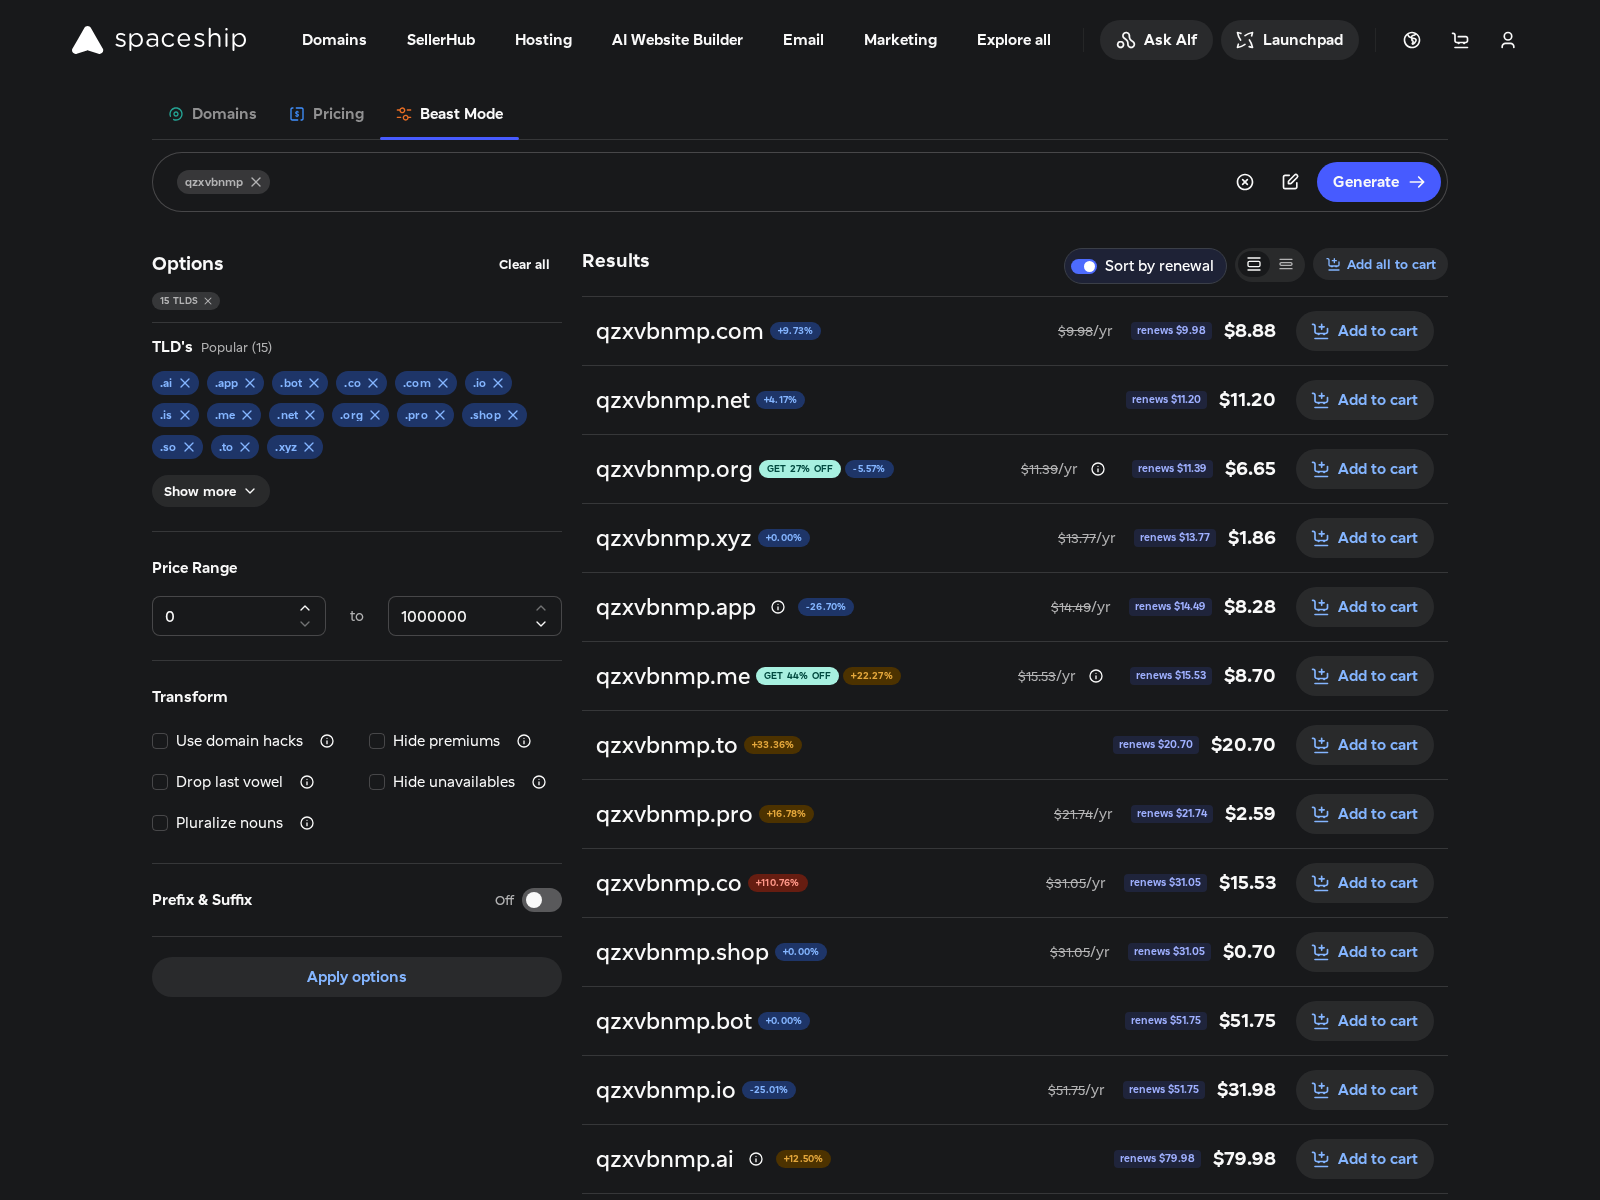
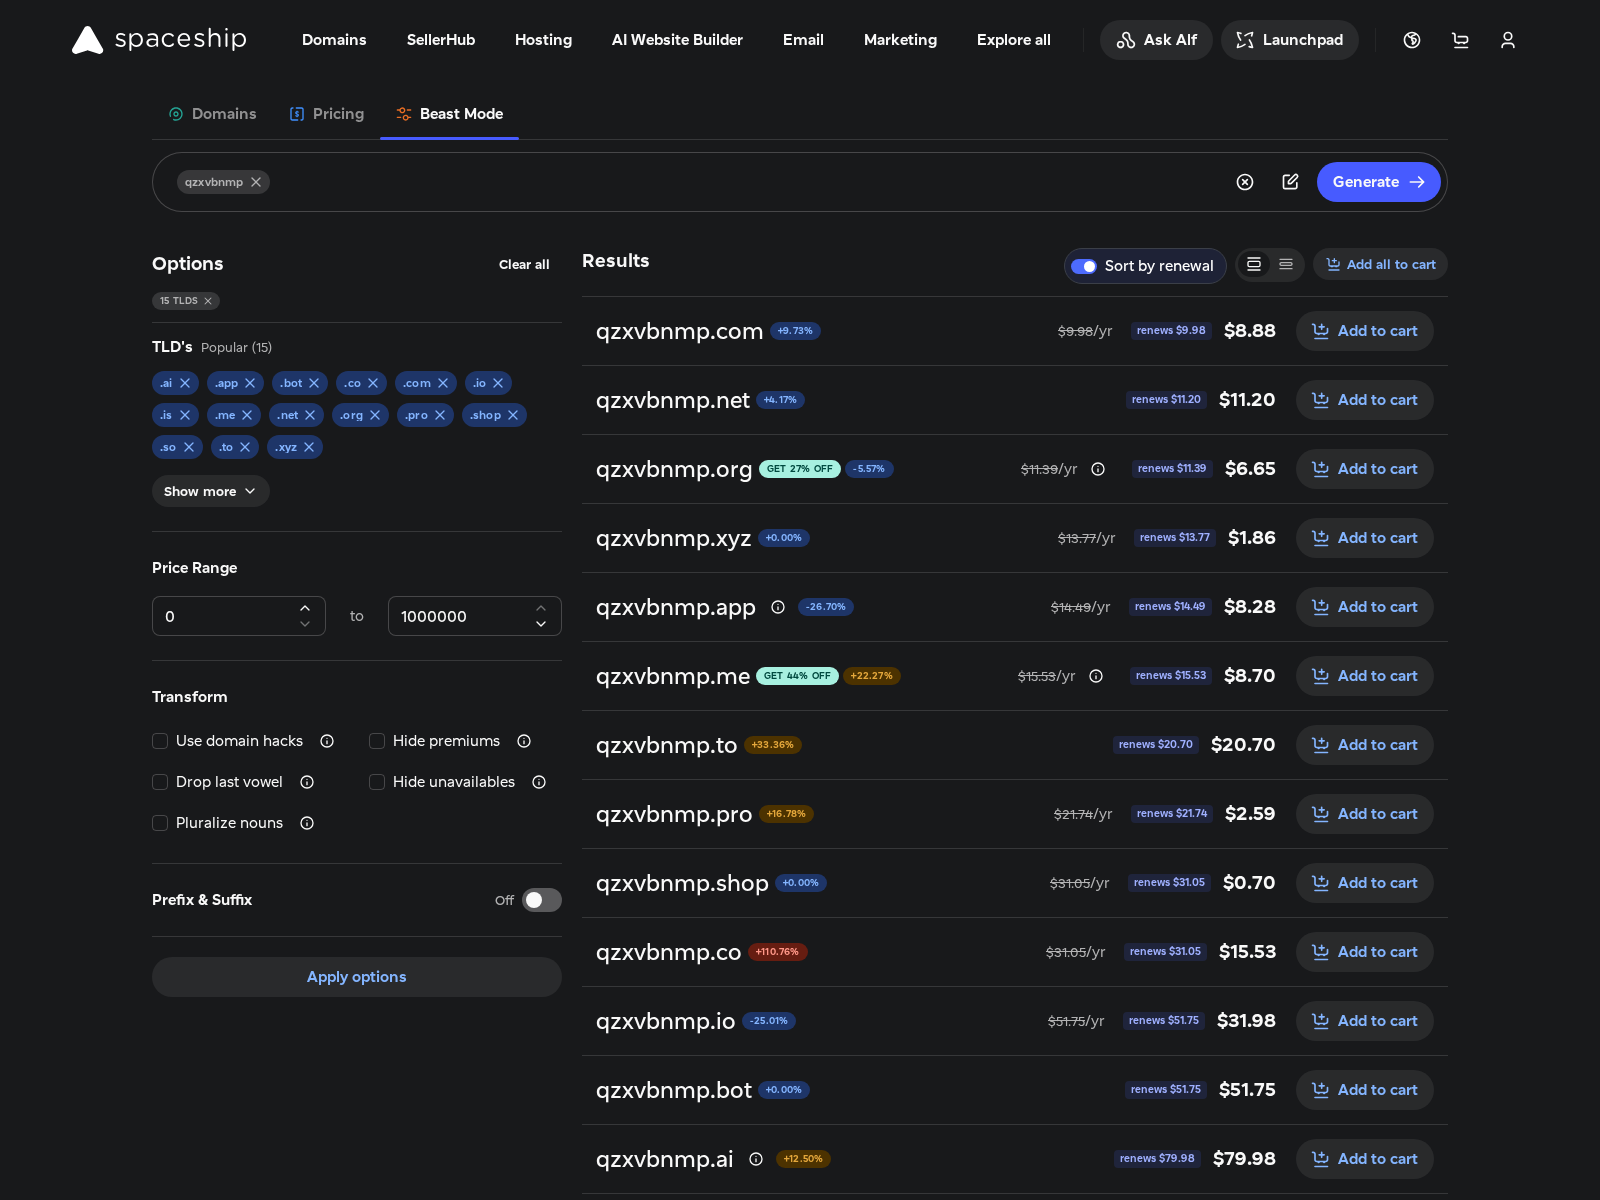
fix(userscript): mount the toggle before results exist and on any Spaceship page
Reported as 'I don't see the toggle'. Two causes: the control only mounted
into .results__header (present only after Generate), and @match was limited
to /domain-search* so a tab loaded on another Spaceship page never injected
the script on in-app navigation.

- @match now covers the whole site; the control hides itself outside Beast Mode
- on the Beast tab without results it floats bottom-right, then moves into the
  Results header once rows render
- window.__sprs exposes {version, place, enabled, rows} plus toggle()/resort()
  for console diagnosis
- README: reload after install, where the control lives, troubleshooting

diff --git a/spaceship-renewal-sort.user.js b/spaceship-renewal-sort.user.js
@@ -1,10 +1,10 @@
 // ==UserScript==
 // @name         Spaceship Beast Mode — sort by renewal price
 // @namespace    https://github.com/pasc4le-labs/spaceship-renewal-sort
-// @version      1.0.0
+// @version      1.1.0
 // @description  Adds a toggle to Spaceship's Beast Mode results that re-sorts the list by renewal price instead of the first-year price.
 // @author       bob
-// @match        https://www.spaceship.com/domain-search*
+// @match        https://www.spaceship.com/*
 // @run-at       document-start
 // @grant        none
 // @noframes
@@ -29,6 +29,7 @@
   let listEl = null;
   let renderTimer = null;
   let hydrationInFlight = false;
+  const diag = { version: '1.1.0', place: 'none', enabled: false, rows: 0 };
 
   const debug = (...args) => {
     if (window.__SPRS_DEBUG) console.log('[renewal-sort]', ...args);
@@ -273,6 +274,7 @@
 
     const rows = items.map(readRow).filter(Boolean);
     if (!rows.length) return;
+    diag.rows = rows.length;
 
     rows.forEach((row) => {
       if (row.unavailable) {
@@ -375,6 +377,7 @@
   const setEnabled = (value) => {
     debug('setEnabled', value);
     enabled = Boolean(value);
+    diag.enabled = enabled;
     writeEnabled(enabled);
     clearTimeout(renderTimer);
     renderTimer = null;
@@ -404,15 +407,34 @@
     return button;
   };
 
-  const mountToggle = () => {
-    const header = document.querySelector('.results__header');
-    if (!header) return;
-    if (toggleEl && header.contains(toggleEl)) return;
-    const anchor = header.querySelector('.results__sort-by') || header;
+  const isBeastContext = () => {
+    const tab = new URLSearchParams(location.search).get('tab');
+    if (tab === 'beast') return true;
+    if (document.querySelector('.results__header')) return true;
+    return Boolean(document.querySelector('[class*="beast-tab"], [class*="beast-mode"]'));
+  };
+
+  const placeToggle = () => {
     if (!toggleEl) toggleEl = buildToggle();
-    anchor.insertBefore(toggleEl, anchor.firstChild);
     toggleEl.classList.toggle('sprs-toggle--on', enabled);
     toggleEl.setAttribute('aria-checked', String(enabled));
+
+    const header = document.querySelector('.results__header');
+    if (header) {
+      const anchor = header.querySelector('.results__sort-by') || header;
+      if (toggleEl.parentElement !== anchor) anchor.insertBefore(toggleEl, anchor.firstChild);
+      toggleEl.classList.remove('sprs-toggle--floating');
+      diag.place = 'header';
+      return;
+    }
+    if (isBeastContext()) {
+      if (toggleEl.parentElement !== document.body) document.body.appendChild(toggleEl);
+      toggleEl.classList.add('sprs-toggle--floating');
+      diag.place = 'floating';
+      return;
+    }
+    if (toggleEl.parentElement) toggleEl.remove();
+    diag.place = 'none';
   };
 
   const injectStyles = () => {
@@ -458,6 +480,14 @@
         transition: transform .15s ease;
       }
       .sprs-toggle--on .sprs-toggle__thumb { transform: translateX(11px); }
+      .sprs-toggle--floating {
+        position: fixed;
+        right: 20px;
+        bottom: 20px;
+        z-index: 2147483000;
+        padding: 8px 14px 8px 8px;
+        box-shadow: 0 8px 24px rgba(0, 0, 0, .45);
+      }
       .sprs-renew {
         display: inline-block;
         margin-left: 6px;
@@ -480,16 +510,17 @@
     let scheduled = false;
     observer = new MutationObserver((records) => {
       if (scheduled) return;
-      const relevant = records.some((record) => {
-        const target = record.target;
-        if (!(target instanceof Element)) return false;
-        return Boolean(target.closest('.results')) || target.querySelector?.('.results');
-      });
+      const relevant =
+        records.some((record) => {
+          const target = record.target;
+          if (!(target instanceof Element)) return false;
+          return Boolean(target.closest('.results')) || Boolean(target.querySelector?.('.results'));
+        }) || (diag.place !== 'header' && isBeastContext());
       if (!relevant) return;
       scheduled = true;
       requestAnimationFrame(() => {
         scheduled = false;
-        mountToggle();
+        placeToggle();
         if (enabled) scheduleRender();
       });
     });
@@ -498,8 +529,13 @@
 
   const boot = () => {
     injectStyles();
-    mountToggle();
+    placeToggle();
     startObserver();
+    window.__sprs = Object.assign(diag, {
+      resort: () => (enabled ? sortRows() : restoreRows()),
+      toggle: () => setEnabled(!enabled),
+      mount: () => placeToggle(),
+    });
     if (enabled) scheduleRender();
   };
 

diff --git a/README.md b/README.md
@@ -15,12 +15,16 @@ actual renewal price and tags every row with it.
 
 1. Install [Tampermonkey](https://www.tampermonkey.net/) (or Violentmonkey).
 2. Open [`spaceship-renewal-sort.user.js`](https://raw.githubusercontent.com/pasc4le-labs/spaceship-renewal-sort/main/spaceship-renewal-sort.user.js) — Tampermonkey offers to install it.
+3. **Reload any Spaceship tab that was already open** — the script has to hook the page before its own
+   code runs, so an existing tab stays unpatched until reloaded.
 
 ## Use
 
 1. Open the Domain Search, switch to the **Beast Mode** tab.
 2. Pick the TLDs you care about (**Show more** lists all of them), type a keyword, press **Generate**.
-3. In the *Results* header, flip **Sort by renewal**.
+3. Flip **Sort by renewal** — it sits in the *Results* header next to the view toggles, and floats at the
+   bottom right of the page on the Beast tab until the first results exist. Turning it on before
+   generating works too: results come out already sorted.
 
 While the toggle is on:
 
@@ -61,6 +65,16 @@ restores the original order without leftovers.
 npm i -D playwright && npx playwright install chromium
 node test/verify.mjs            # QUERY=whatever SHOT=path.png to override
 ```
+
+## Troubleshooting
+
+- `fbq is not defined` in the console is the site's own Facebook-pixel bug, unrelated — it shows up
+  without this script installed.
+- Nothing visible? Open the console and read `__sprs`: `{version, place, enabled, rows}` where `place`
+  is `header` (results present), `floating` (Beast tab, no results yet) or `none` (not a Beast Mode
+  page). `__sprs.toggle()` flips the setting and `__sprs.resort()` re-applies it.
+- With `@grant none` the script needs Tampermonkey's default injection mode; if you switched it to
+  "Sandbox", set it back to "Instant"/"Auto" for this script.
 
 ## License
 
